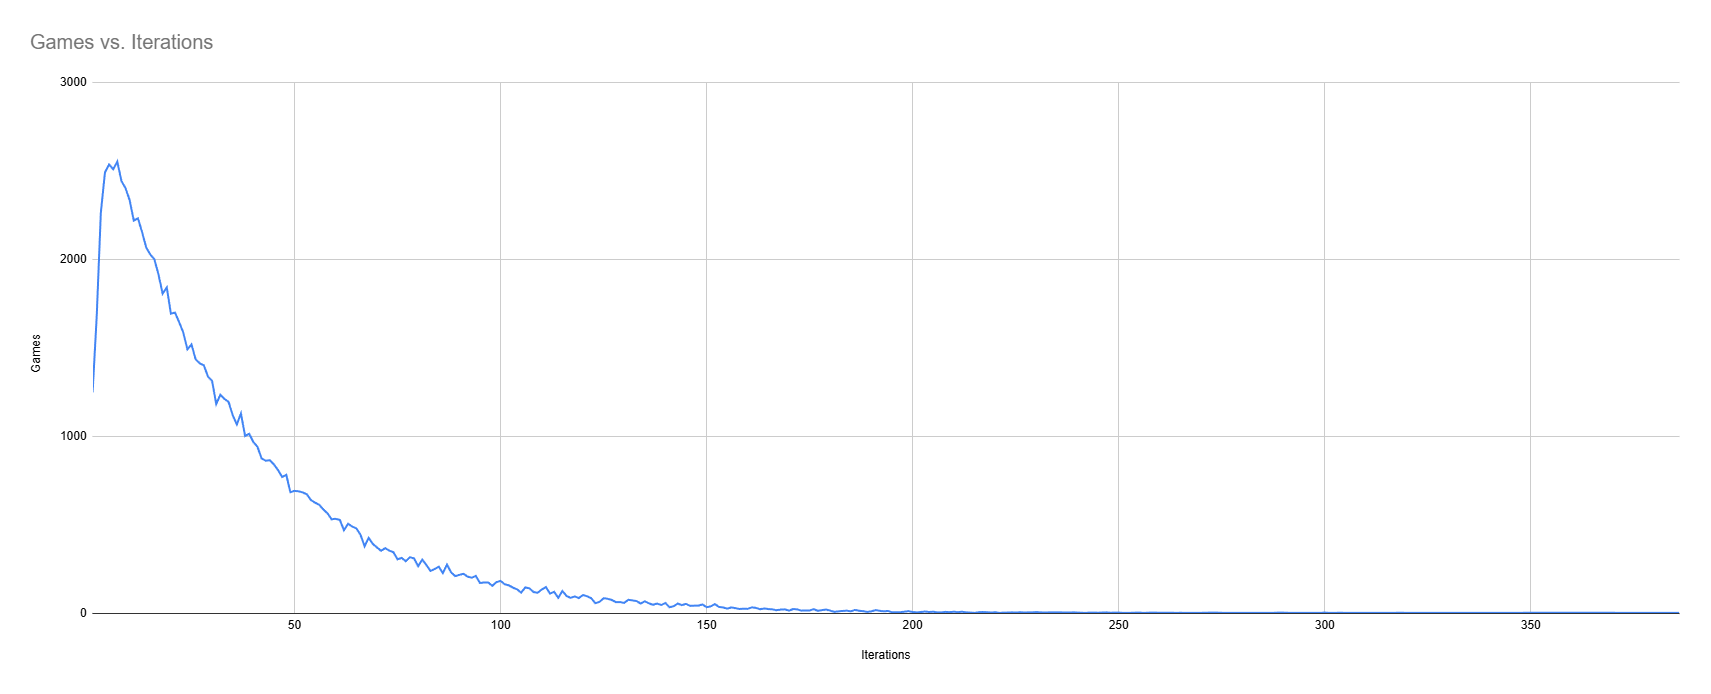
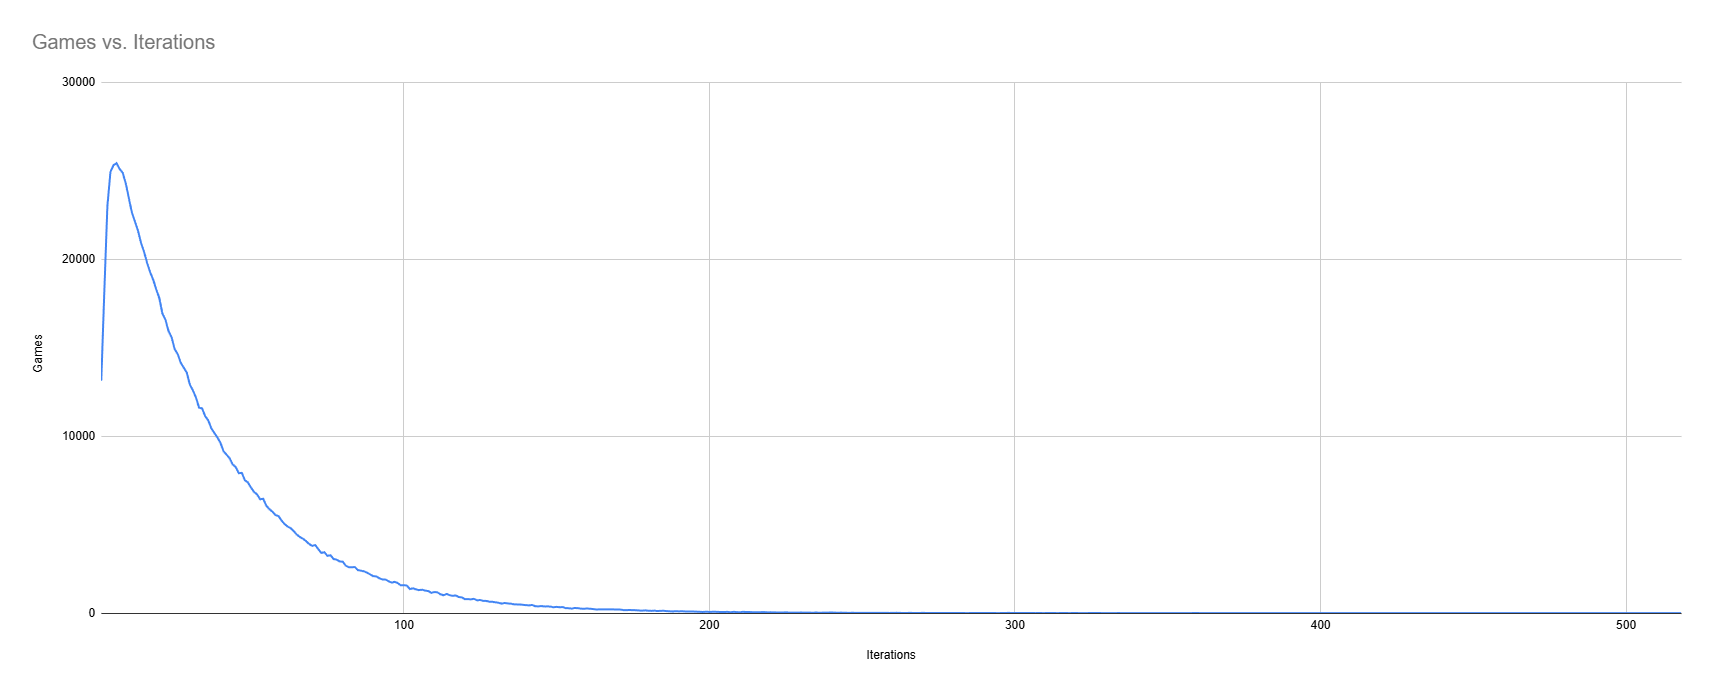
Fix step 7 impl

diff --git a/readme.md b/readme.md
@@ -17,11 +17,11 @@ This repo simulates many games and computes a histogram of how many iterations a
 
 ## Statistics
 
-* The chance of winning on the first iteration is approximately 1.25%
+* The chance of winning on the first iteration is approximately 1.3%
 * The chance of winning within 10 iterations or less is approximately 22.5%
-* The chance of winning within 25 iterations of less is approximately 50%
+* The chance of winning within 25 iterations of less is approximately 51%
 * There is no upper limit to the number of iterations that might be required to win, since the shuffle in step 8 does not guarantee that an "unvisited" permutation is selected, but after simulating several million games, I have only seen one winning game that required over 500 iterations.
-* It is possible to get stuck in a "loop" where it is impossible to win, though the chance is only about 0.1%.  This happens when there are very few cards remaining at the end of an iteration, and all permutations of decks to start the next iteration also yield a small number of cards remaining, and so on recursively, where the set of "reachable" decks is small and does not contain any winning decks.
+* It is possible to get stuck in a "loop" where it is impossible to win, though the chance is only about 0.06%.  This happens when there are very few cards remaining at the end of an iteration, and all permutations of decks to start the next iteration also yield a small number of cards remaining, and so on recursively, where the set of "reachable" decks is small and does not contain any winning decks.
 
-Here is a histogram of 100,000 random games:
+Here is a histogram of 1,000,000 random games:
 ![Histogram](histogram.png)
